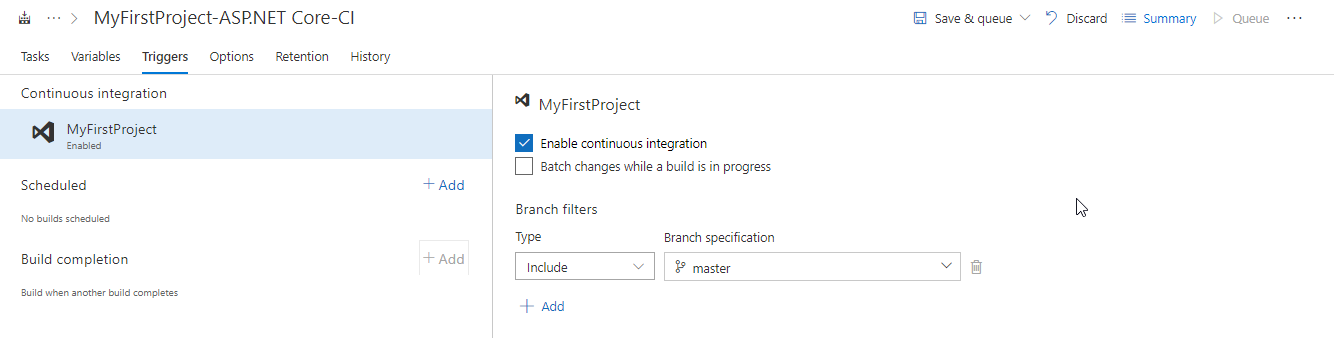
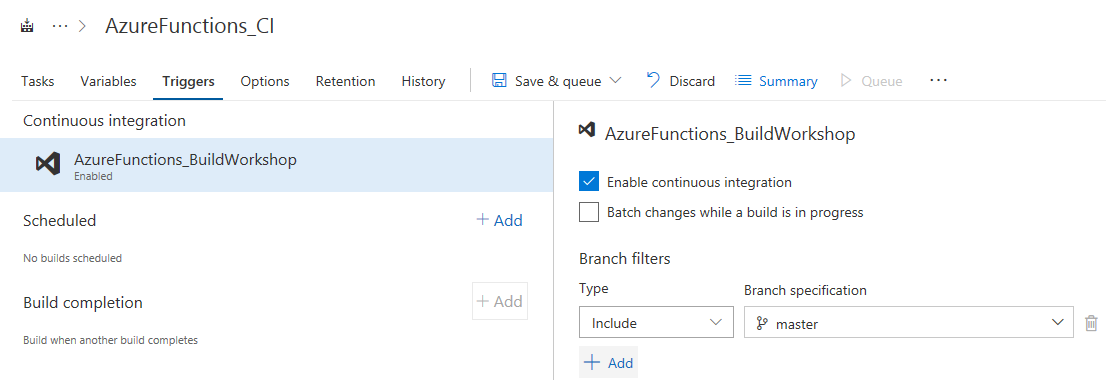
modified and added steps, images

diff --git a/HOL/readme.md b/HOL/readme.md
@@ -7,18 +7,18 @@
 ## What is covered in this lab?
 
  In this lab, you will
-* Create a Visual Studio Team Services account and clone the PartsUnlimited project from GitHub
+* Create a Visual Studio Team Services account and generate the PartsUnlimited project data with *VSTS Demo Generator* tool
 * Setup Azure Functions in Azure portal and add code via Visual Studio
-* Setup a build definition in Visual Studio Team Services to build and test the code
-* Configure a CD pipeline in Visual Studio Team Services for Website, API and Azure Functions
+* Configure the build definition in Visual Studio Team Services to build and test the code
+* Configure the CD pipeline in Visual Studio Team Services for Website, API and Azure Functions
 
 ## Setting up the environment
 
-### Part A: Provision the required Azure resources
+### Part A: Verify the created Azure resources
 
  In this lab, you will be using a fictional eCommerce website - PartsUnlimited. The PartsUnlimited team wants to  roll out a new discount for its employees and customers and wants to build Azure Functions that will retrieve the right discount depending on whether the logged in user is an employee or a customer. 
 
-Let's create the Parts Unlimited website. 
+Let us verify the resources created in the Azure Portal. 
 
 1. Open your browser and navigate to [https://portal.azure.com](https://portal.azure.com)
 
@@ -27,14 +27,8 @@ Let's create the Parts Unlimited website.
    > Password: ++@lab.CloudPortalCredential(1).Password++
 
 
-1. Enter **https://goo.gl/octfDu** to deploy a custom ARM template that contains the PartsUnlimited App.
+1. Navigate to the **Resource Groups** and select **@lab.CloudResourceGroup(268).Name** to view the resources. You should see 3 resources as shown below.
 
-1. For the **Resource Group** field, select **Use existing** and pick 
-@lab.CloudResourceGroup(268).Name from the dropdown.
-
-1. Agree to the terms and conditions and click **Purchase**. 
-
-    It should take approximately 1-2 minutes to provision the resources. Once the deployment is successful, you will see the resources as shown.
    ![azure_resources](images/azure_resources.png)
 
 ### Part B: Create Visual Studio Team Services account
@@ -49,19 +43,33 @@ Next, you will provision a Team services account.
 
 1. Provide a name for your Visual Studio Team Services account and click **Continue** to start the creation process.
 
-1. In 1-2 minutes, your account should be ready with a default project **MyFirstProject** created.
+1. In a few minutes, your account should be ready with a default project **MyFirstProject** created.
 
-### Part C: Import and clone the project repository
+### Part C: Generate project data with VSTS Demo Generator
 
-1. Navigate to the **Code** hub. Since there is no code yet, you wil see an empty repository. You can clone the remote repository to your local machine and start adding code or you can import code from an another code repository.
+1. Use the [VSTS Demo Generator](https://demogentesting.azurewebsites.net/?TemplateId=77376&Name=AzureFunctions_BuildWorkshop) to provision the project on your VSTS account.
 
-1. For the purpose of this lab, you will import it from **GitHub**. Select **import** and enter https://github.com/sriramdasbalaji/AzureFunctionsBuild.git in the **Clone URL** field and select **Import**
+   > VSTS Demo Generator helps you create team projects on your VSTS account with sample content that include source code, work items,iterations, service endpoints, build and release definitions based on the template you choose during the configuration.
 
-     ![importrepository](images/importrepository.png)
+   ![vsts demo generator](images/vstsdemogeneratornew.png)
 
-      ![clonerepo](images/clonerepo.png)
+1. Click the **Sign In** button to get started. If you are asked for credentials, sign in with the same credentials used above to log in to Azure
+     > Username: ++@lab.CloudPortalCredential(1).Username++      
+     > Password: ++@lab.CloudPortalCredential(1).Password++  
 
-1. When the import is complete, select **Clone** and then select **Clone in Visual Studio**. 
+1. Accept the request for permissions by clicking on the **Accept** button. 
+
+   ![accept terms](images/acceptterms.png)
+     
+1. Select the previously created Team Services account from the drop down, provide the project name as **PartsUnlimited** and click Create Project.
+
+    ![create project](images/createproject.png)
+
+1. Once the project is created, click on the generated URL to be directed to the project portal in a new tab.
+
+    ![create project](images/createdproject.png)
+
+1. Navigate to the **Code** hub within the project portal, select **Clone** and then select **Clone in Visual Studio**. 
 
    ![cloneinvisualstudio](images/cloneinvisualstudio.png)
 
@@ -176,71 +184,52 @@ Although you have used a simple condition here, this could also use more complex
       
 ## Exercise 2: Setup continuous integration
 
-Next, in this exercise, we will setup a CI and CD pipeline to deploy the Azure Functions app. Let's start with build first. 
+Next, in this exercise, you will look at the build definition to get an insight of how the code is built as part of the the CI pipeline. 
 
-1. On the **Files** tab of the **Code** hub, select **Set up build**.
-   
-   ![setupbuild](images/setupbuild.png)
+1. Click the **Build and Release** hub in VSTS portal, select the build definition **AzureFunctions_CI** and click the ellipsis ***...*** button and click **Edit** option in the menu to view the tasks within the build definition.
 
-1. This will take you to the **Build and Release** hub in VSTS. It's super easy to setup the build pipeline with the new **ASP.NET Core** template. Select *the template and click **Apply**.
-   ![selecttemplate](images/selecttemplate.png)
+      ![buildtasks](images/editbuilddef.png)
 
-   
-1. This should add a bunch of tasks to the the build definition. We can leave most of the the tasks untouched - the default values are fine.
-      ![buildtasks](images/buildtasks.png)
-
-1. You will only need to change the **Publish** task. Select the task and uncheck the **Publish Web Projects** field and enter **\**\**\/\*.csproj** in **Path to Projects** field. This will change -?
-
-   ![buildpublishtask](images/buildpublishtask.png)
-   
-   
 1. Before we run the build. you will make this a CI build. Click the **Triggers** tab in the build definition. Enable the **Continuous Integration** trigger. This will ensure that the build process is automatically triggered every time you commit a change to your repository
 
-    ![CI Trigger](images/citrigger.png)
+    ![CI Trigger](images/citrigger.png) 
 
-1. Select **Save & queue** to save and start your first build.
+1. Select **Save & queue** to save and start your first build. A new build is started. You will see a link to the new build on the top of the page. Click the link to watch the live logs of the build as it happens. Wait for the build to complete and succeed before proceeding to the next section.
 
-A new build is started. You will see a link to the new build on the top of the page. Click the link to watch the live logs of the build as it happens. Wait for the build to complete and succeed before proceeding to the next section.
-
-![buildqueued2](images/buildqueued2.png)
+    ![buildqueued2](images/buildqueued2.png)
 
 ## Exercise 3: Setup continuous deployment
 
-1. Once the build succeeds, click the **Release** action on the build summary page.
-  ![Select Release](images/selectrelease.png)
+1. Once the build succeeds, click the **Release** option from the **Build & Release** hub.
 
-1. In the **Select a Template** panel, click the **Empty Process**.
-     ![releaseemptyprocess](images/releaseemptyprocess.png)
+    ![Release Hub](images/releasehub.png)
+
+1. In the **Release** page, select the definition **AzureFunctions_CD** and click **Edit**.
+
+     ![edit release def](images/editreleasedef.png)
 
 1. Select the artifact trigger and make sure the **Continuous deployment trigger** is enabled.
 
      ![cdtrigger](images/cdtrigger.png)
 
-1. Click **Tasks**, and then select **Add task to the Phase** to add the deployment tasks.
+1. To deploy **PartsUnlimited Website**, click **Tasks**, select the first **Deploy PartsUnlimited Website** task and configure the inputs as shown below.
 
-    ![releasetasks](images/releasetasks.png)
+    ![websitedeploytask](images/websitedeploytask.png)
 
-1. In **Add tasks** panel under **Deploy** section select **Azure App Service Deployment** task. Add this task three times.
+   > To authorize the **Azure Subscription**, first select the **Azure subscription** from the drop down and then the drop down within the **Authorize** button. Click the drop down, choose **Advanced Options** and authorize Team Services to connect to the Azure subscription.
 
-   ![addazureappservicetask](images/addazureappservicetask.png)
+    ![websitedeploytask](images/authorizeazure.png)
 
-   >To configure the inputs for the **Deploy Azure App Service** tasks in the release definitio, first select the **Azure subscription** and if there is an **Authorize** button next to the input, click on it to authorize Team Services to connect to the Azure subscription
+    ![websitedeploytask](images/azureauth.png)
 
-1. Select the first **Azure App Service Deployment** task and configure the inputs as shown below.
-     ![websitedeploytask](images/websitedeploytask.png)
-
-   This task is to deploy **PartsUnlimited Website**.
-
-1. Select the second task and configure the inputs as shown below.
+1. For the **PartsUnlimited APIs**, select the second task and configure the inputs as shown below.
 
    ![apideploytask](images/apideploytask.png)
 
- This task is to deploy **PartsUnlimited APIs**.
-1. Select the third task and configure the inputs  as shown below.
+1. Select the third task to deploy **PartsUnlimited Azure Function** and configure the inputs  as shown below.
 
    ![functionappdeploy](images/functionappdeploy.png)
-  This task is to deploy **PartsUnlimited Azure Function**.
-
+  
 1. Click **Save**. In the Save dialog box, click **OK**. To test the release definition, click **Release** and then **Create Release**.
   
    ![createrelease](images/createrelease.png)
@@ -252,6 +241,7 @@ A new build is started. You will see a link to the new build on the top of the p
    ![releasetriggered](images/releasetriggered.png)
    
 You can watch the live logs for the deployment as it happens. Wait for the release to be deployed to the Azure web app.
+
     ![releaselogs](images/releaselogs.png)
 
  Wait for the release to complete and succeed before proceeding to the next section.
